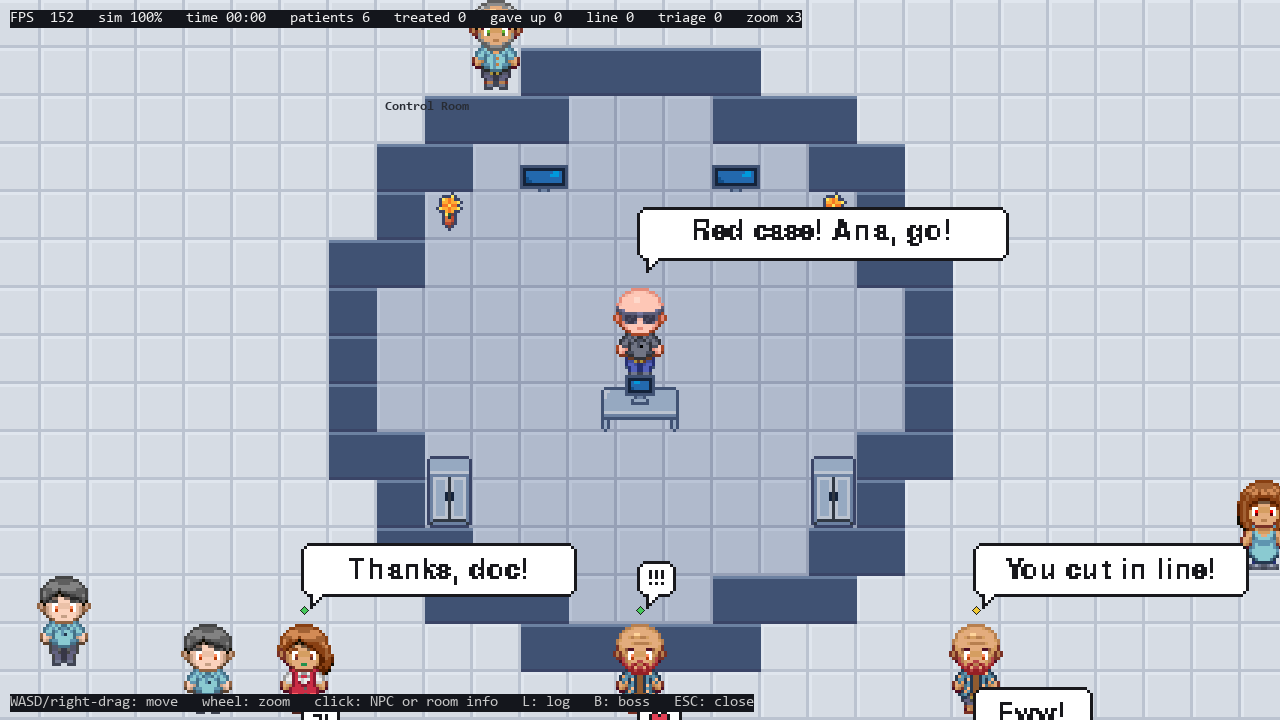
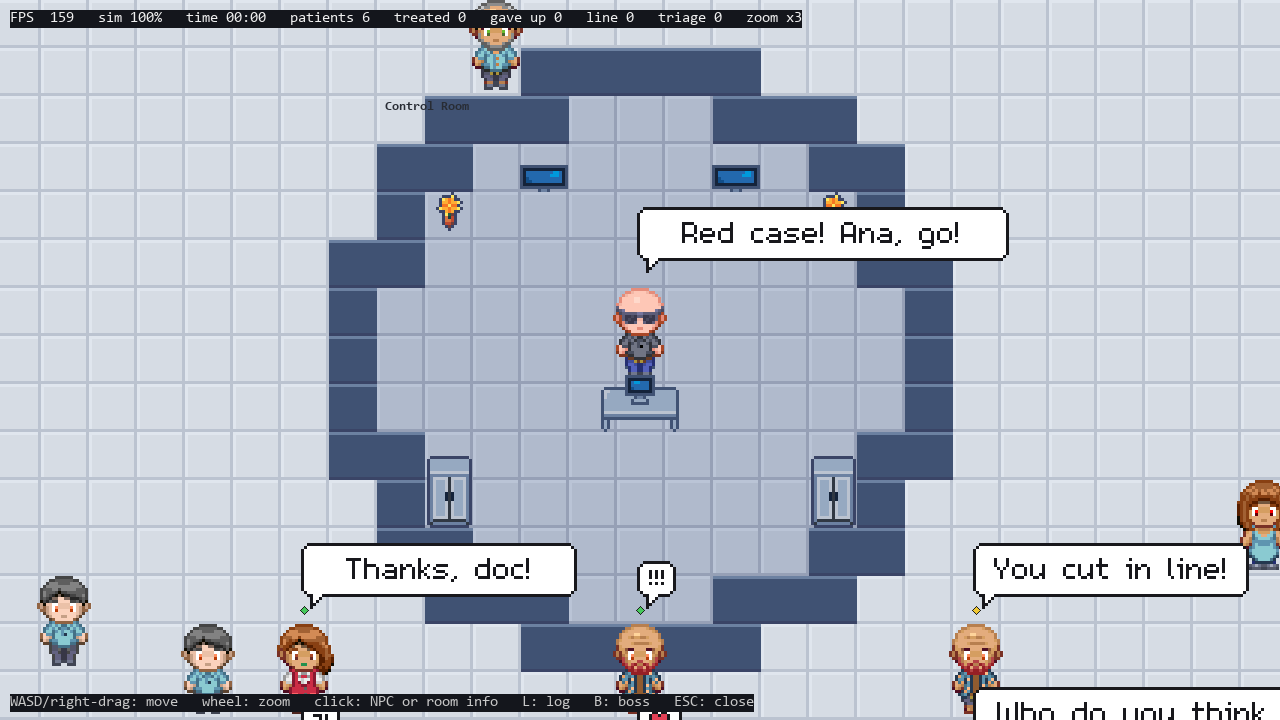
Speech bubbles use the m5x7 pixel font
m5x7 by Daniel Linssen (CC0) in hospital2d/assets/fonts/, rendered at
its native size 16 without antialiasing and scaled with the pixel art.
Credited in both READMEs; screenshot updated.

diff --git a/hospital2d/main.py b/hospital2d/main.py
@@ -6,6 +6,7 @@
 #           L = event log on/off | B = what the dispatcher (Boss) is doing | ESC = close the card
 import heapq
 import multiprocessing as mp
+import os
 import queue
 from types import SimpleNamespace
 
@@ -14,7 +15,7 @@ import pygame
 import config
 from actors import ROLE_LABEL
 from arrivals import run_arrivals
-from art import BUBBLE_TAIL_X, CHAR_H, CHAR_W, character, draw_layout, furniture_sprites, icon_bubble, image, \
+from art import ASSETS, BUBBLE_TAIL_X, CHAR_H, CHAR_W, character, draw_layout, furniture_sprites, icon_bubble, image, \
     text_bubble
 from eventlog import run_log
 from layout import build_layout
@@ -129,7 +130,8 @@ def run_ui(snapshots):
     small = pygame.font.SysFont('consolas', 13)
     banner_font = pygame.font.SysFont('consolas', 28, bold=True)
     room_font = pygame.font.SysFont('consolas', 13, bold=True)
-    bubble_font = pygame.font.Font(None, 14)  # rendered without antialiasing and scaled up: pixel text
+    # m5x7 (Daniel Linssen, CC0) at its native size, without antialiasing, scaled up with the rest: pixel text
+    bubble_font = pygame.font.Font(os.path.join(ASSETS, 'fonts', 'm5x7.ttf'), 16)
     bubbles = {}  # what's said (or an icon) -> its speech bubble
 
     lay = build_layout()  # same config as the simulation process, so the same plan

diff --git a/hospital2d/README.md b/hospital2d/README.md
@@ -187,6 +187,7 @@ Ryzen 5 3600, Python 3.14 (one process, so all actor threads share the GIL):
 * [Hospital Top-Down Pixel Pack](https://soppycraft.itch.io/top-down-hospital) — Soppycraft
 * [2D Top-Down Pixel Art Characters](https://gamebetweenthelines.itch.io/top-down-pixel-art-characters) — Jephed, [Game Between The Lines](https://gamebetweenthelines.com/)
 * [Modern Town Tileset — Free Sample](https://chuckyassets.itch.io/modern-town-tileset-free-sample) — [Chucky Assets](https://chuckyassets.itch.io/)
+* [m5x7](https://managore.itch.io/m5x7) font, used in the speech bubbles — Daniel Linssen, CC0 (in `assets/fonts/`)
 
 ## Ideas for later
 

diff --git a/README.md b/README.md
@@ -88,3 +88,4 @@ python bench.py         # how far it scales
 - [Hospital Top-Down Pixel Pack](https://soppycraft.itch.io/top-down-hospital) — Soppycraft
 - [2D Top-Down Pixel Art Characters](https://gamebetweenthelines.itch.io/top-down-pixel-art-characters) — Jephed, [Game Between The Lines](https://gamebetweenthelines.com/)
 - [Modern Town Tileset — Free Sample](https://chuckyassets.itch.io/modern-town-tileset-free-sample) — [Chucky Assets](https://chuckyassets.itch.io/)
+- [m5x7](https://managore.itch.io/m5x7) font (speech bubbles) — Daniel Linssen, CC0; included in `hospital2d/assets/fonts/`
